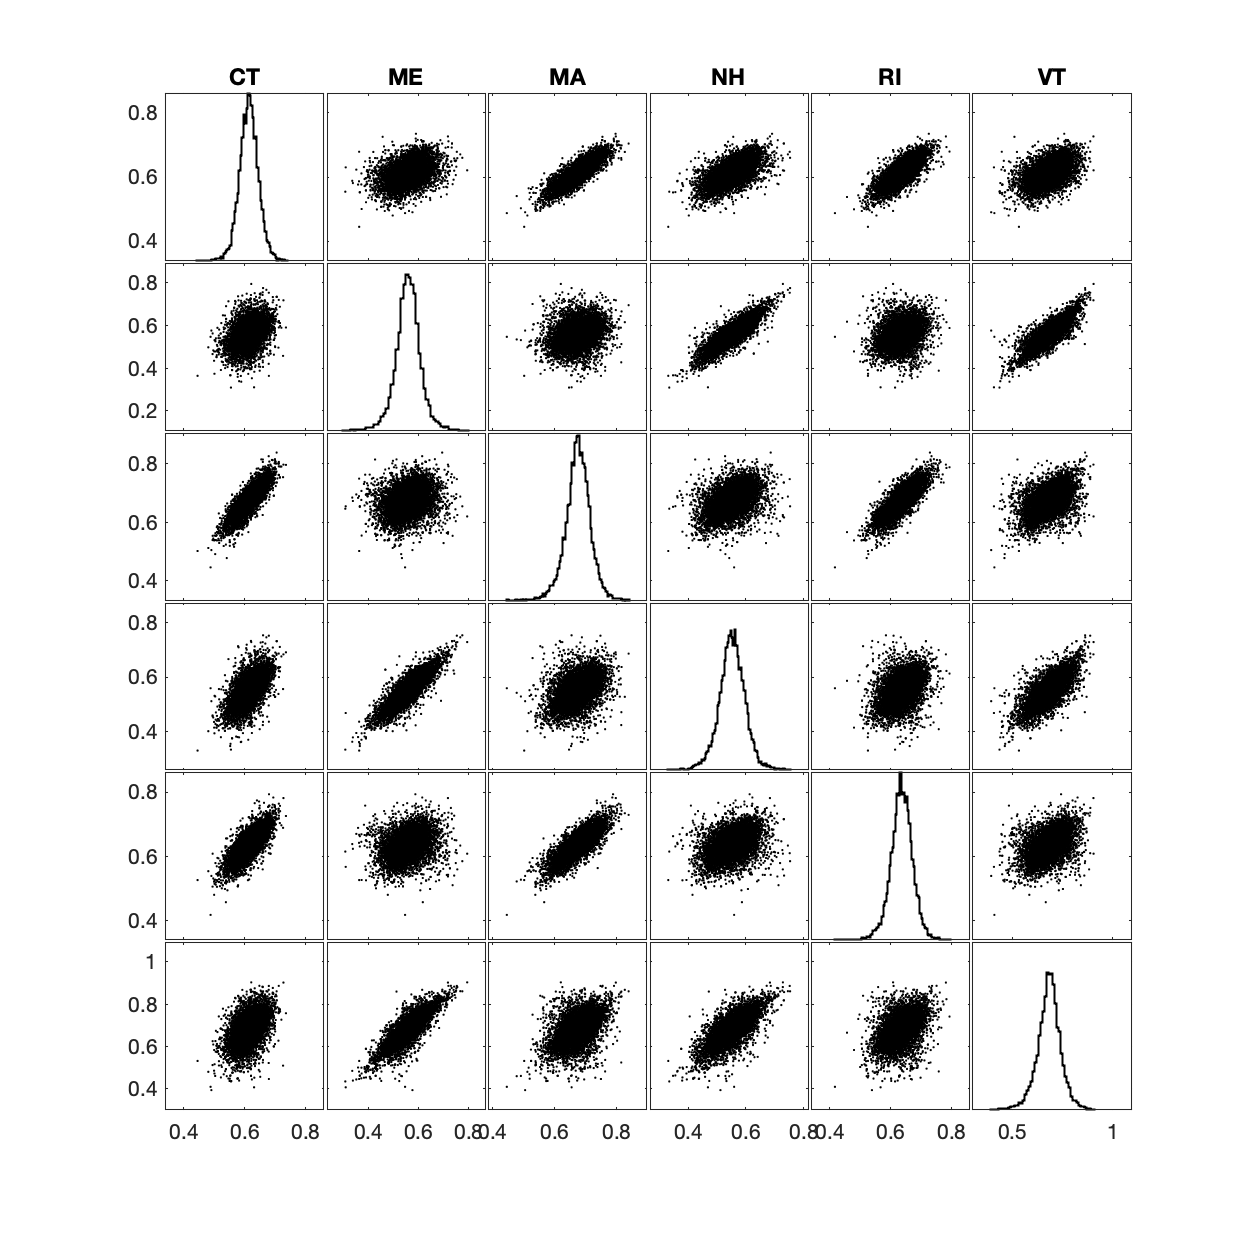
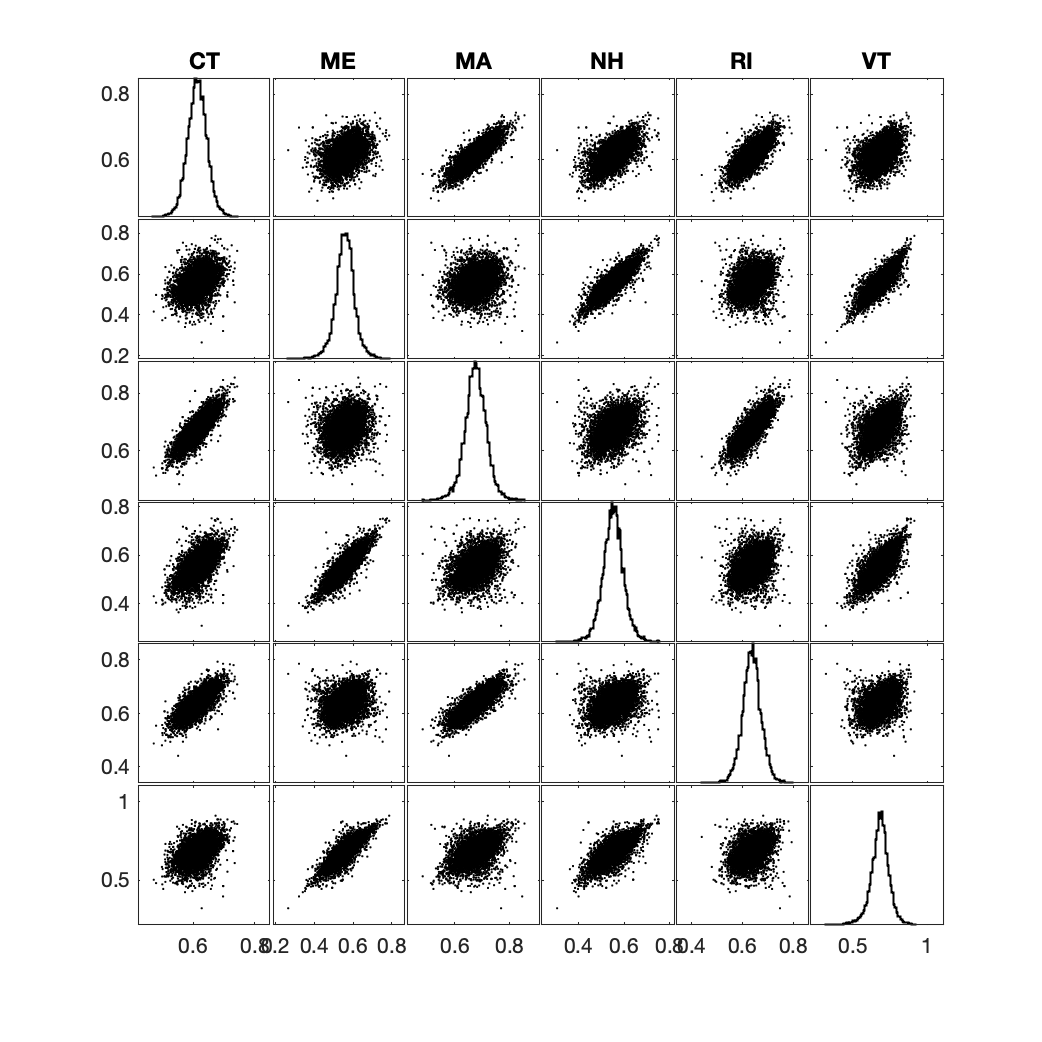
resize figures

diff --git a/compare_models.m b/compare_models.m
@@ -31,7 +31,7 @@ tblEcon = tblEcon(:, stateNames);
 %% plot mean field
 
 
-f_meanfield = figure('Renderer', 'painters', 'Position', [0 0 1024 512]);
+f_meanfield = figure('Renderer', 'painters', 'Position', [0 0 1280 640]);
 tiledlayout(5,10,'TileSpacing', 'compact', 'Padding', 'compact');
 
 for ss = 1:length(stateNames)
@@ -61,12 +61,12 @@ saveas(f_meanfield, './figures/meanfield.png')
 
 %% plot correlation matrix
 
-f_corr = figure('Renderer', 'painters', 'Position', [0 0 960 300])
+f_corr = figure('Renderer', 'painters', 'Position', [0 0 400 500])
 colormap(batlow);
 
 tiledlayout('flow','TileSpacing', 'compact', 'Padding', 'compact');
 
-nexttile(1);
+nexttile;
 c538 = corr(tbl538.Variables);
 imagesc(c538, [-1 1]); colorbar('Ticks', [-1,0,1]);
 title('538 state correlation')
@@ -75,7 +75,7 @@ yticks([])
 xticks([])
 
 
-nexttile(2);
+nexttile;
 cEcon = corr(tblEcon.Variables);
 imagesc(cEcon, [-1 1]);
 title('Economist state correlation')
@@ -85,7 +85,7 @@ xticks([])
 
 
 
-nexttile(3); hold on;
+nexttile([2, 2]); hold on;
 
 t538 = c538(logical(tril(ones(50),-1)));
 tEcon = cEcon(logical(tril(ones(50),-1)));
@@ -111,7 +111,7 @@ saveas(f_corr, './figures/corrplots.png')
 compareStates = {'CT', 'ME', 'MA', 'NH', 'RI', 'VT'};
 nComp = length(compareStates);
 
-f_538 = figure('Renderer', 'painters', 'Position', [0 0 600 600]);
+f_538 = figure('Renderer', 'painters', 'Position', [0 0 500 500]);
 
 [S_538,AX_538,BigAx_538,H_538,HAx_538] = plotmatrix(tbl538{datasample(1:nsims, 1e4),compareStates}, '.k');
 for ii = 1:nComp; H_538(ii).DisplayStyle = 'stairs';end
@@ -120,7 +120,7 @@ for ii = 1:nComp; H_538(ii).LineWidth = 1;end
 for ii = 1:nComp; set(get(AX_538(1,ii),'Title'),'String',compareStates{ii});end
 
 
-f_Econ = figure('Renderer', 'painters', 'Position', [0 0 600 600]);
+f_Econ = figure('Renderer', 'painters', 'Position', [0 0 500 500]);
 
 [S_Econ,AX_Econ,BigAx_Econ,H_Econ,HAx_Econ] = plotmatrix(tblEcon{datasample(1:nsims, 1e4),compareStates}, '.r');
 for ii = 1:nComp; H_Econ(ii).DisplayStyle = 'stairs';end
